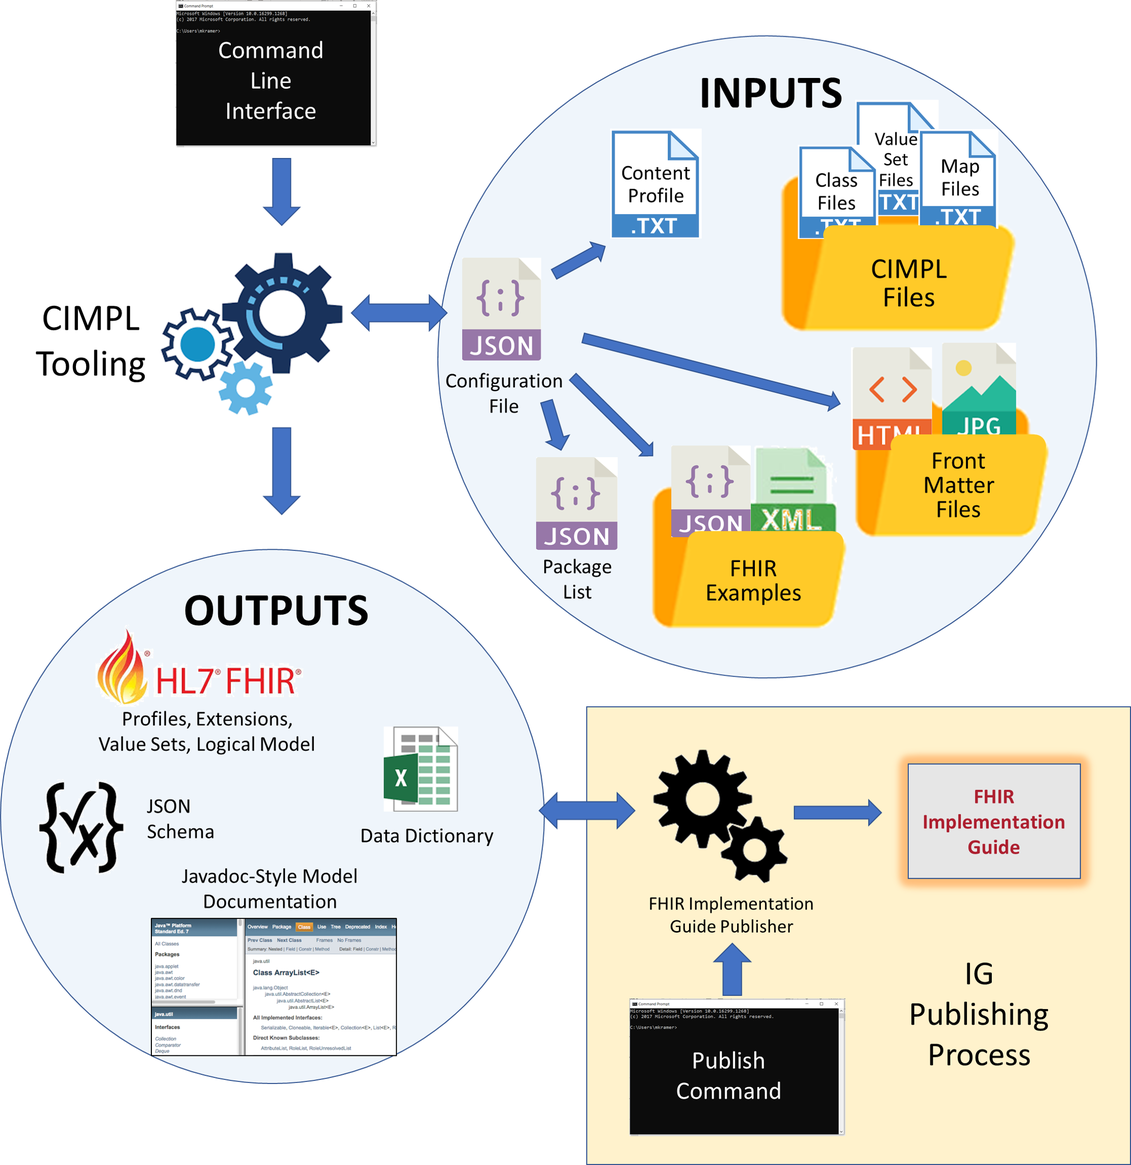
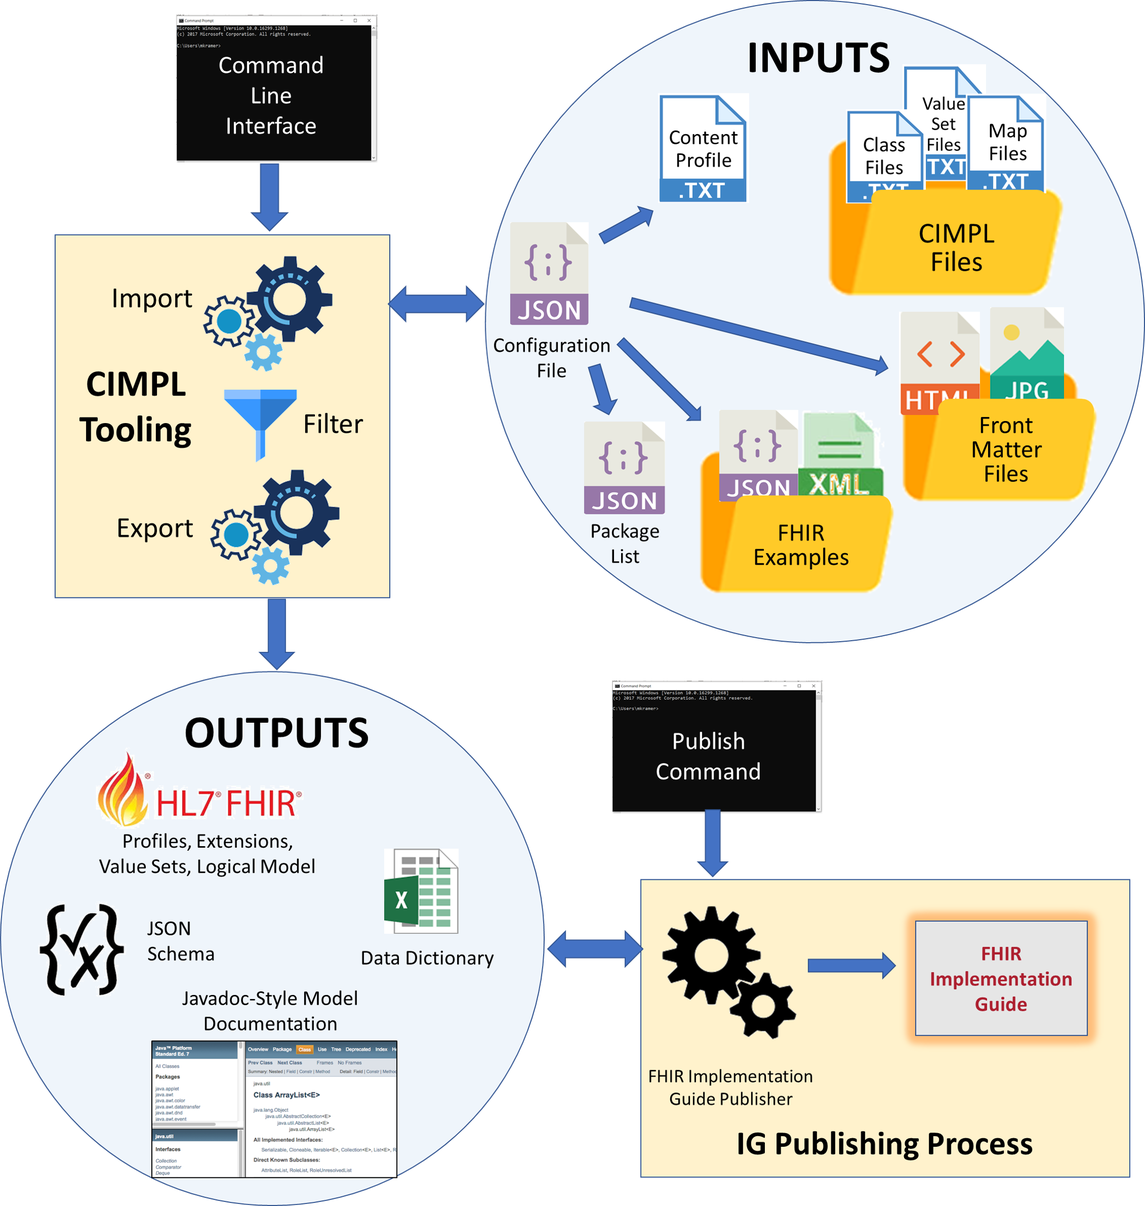
Stopping point

diff --git a/docs/cimpl6ToolingReference.md b/docs/cimpl6ToolingReference.md
@@ -13,10 +13,11 @@ _This is a comprehensive guide to CIMPL 6.0 Tooling, including the command line 
 
 ## Overview
 
-CIMPL (**C**linical **I**nformation **M**odeling **P**rofiling **L**anguage) is a specially-designed language for defining clinical information models. It is simple and compact, with tools to produce [Fast Healthcare Interoperability Resources (FHIR)](https://www.hl7.org/fhir/overview.html) profiles, extensions and Implementation Guides (IGs). The CIMPL language itself, however, does not completely define an IG. This reference manual describes the configurations, files, and commands needed to create a FHIR IG from CIMPL language files.
+CIMPL (**C**linical **I**nformation **M**odeling **P**rofiling **L**anguage) is a specially-designed language for defining clinical information models. It is simple and compact, with tools to produce [Fast Healthcare Interoperability Resources (FHIR)](https://www.hl7.org/fhir/overview.html) profiles, extensions and Implementation Guides (IGs). The CIMPL language itself, however, is static and must be processed to produce these outputs. This reference manual describes the configurations, files, and commands needed to create a FHIR IG from CIMPL language files.
 
-The CIMPL Tooling, also called SHR-CLI (Standard Health Record Command Line Interface), is the engine that reads processes CIMPL inputs and produces FHIR and other outputs, as shown below:
+The CIMPL Tooling, also called SHR-CLI (Standard Health Record Command Line Interface), is the engine that imports a set of inputs, including CIMPL language files, and exports FHIR and other outputs, as shown below:
 
+#### _Figure 1: CIMPL Tooling Overview_ ####
 ![CIMPL Tooling Overview](img_cimpl/cli-overview.png)
 
 The inputs to this process include:
@@ -41,85 +42,110 @@ In the following, we describe these inputs and outputs, and the process of runni
 This reference manual assumes that the CIMPL Language files (classes, value sets, and maps) have been defined (see [CIMPL Language Reference Manual](cimpl6LanguageReference.md) for details). It also assumes that the CIMPL SHR-CLI tooling has been installed according to the directions in the [Setup and Installation Guide](cimplInstall.md).
 
 ## Directory Structure
-The SHR-CLI tooling does not require a particular directory structure. However, following conventions makes the process of managing the requisite files much easier. 
+The SHR-CLI tooling does not require a particular directory structure. However, following conventions makes the process of managing the requisite files much easier. Here is an example of the suggested arrangement that assumes the same IG can be produced under FHIR STU3 and R4:
 
-* **Tooling Directory** - this the directory where the SHR-CLI tooling has been installed. Any convenient directory can be used
-* **Specification Directory** - this is the directory where the input files are located. Any convenient directory can be used. If you are using Github to manage your build, this could be where the repository is checked out to your local machine.
-* **
+```
+├── shr-cli-6.5.0                   // Tooling location
+|
+...
+|
+├── spec                            // Main specification directory
+|   ├── ns-namespace1                   // Namespace directories
+|   |   ├── namespace1-foo.txt               // class file(s)
+|   |   ├── namespace1-bar.txt
+|   |   ├── namespace1-foo-vs.txt            // value set file(s)
+|   |   ├── namespace1-bar-vs.txt
+|   |   ├── namespace1-foo-map-stu3.txt      // map(s) for FHIR STU3
+|   |   ├── namespace1-bar-map-stu3.txt
+|   |   ├── namespace1-foo-map-r4.txt        // map(s) for FHIR r4
+|   |   └── namespace1-bar-map-r4.txt
+|   ├── ns-namespace2
+|   | ...
+|   ├── ns-namespace3
+|   | ...
+|   | ...
+|   ├── ig-myguide1                 // IG directories
+|   |   ├── myguide1-examples           // directory of examples
+|   |   |   ├── example1
+|   |   |   └── example2
+|   |   ├── myguide1-frontmatter        // directory containing narratives
+|   |   |   ├── index.html
+|   |   |   ├── picture.png
+|   |   |   └── another-page.html
+|   |   ├── myguide1-stu3-cp.txt        // content profile file for FHIR STU3 IG
+|   |   ├── myguide1-r4-cp.txt          // content profile file for FHIR R4 IG
+|   |   ├── myguide1-stu3-plist.json    // package list for FHIR STU3 IG
+|   |   ├── myguide1-r4-plist.json      // package list for FHIR R4 IG
+|   |   ├── myguide1-stu3-config.json   // config file for FHIR STU3 IG
+|   |   └── myguide1-r4-config.json     // config file for FHIR R4 IG
+|   ├── ig-myguide2
+|   |  ...
+```
 
+* **Tooling Directory** - this the directory where the SHR-CLI tooling has been installed. Any convenient directory can be used. For easy identification, the tooling version number should be included in the directory name.
+* **Specification Directory** - this is the top level directory where the input files and are located, usually arranged in sub-folders. Any convenient directory can be used. If you are using Github to manage your development, this could be where the repository is checked out to your local machine.
+* **Namespace Directories** - these directories, located under the Specification Directory, contains CIMPL language files for a single namespace. The name of the directory should be prefixed with `ns-` followed by the shortname or acronym of the namespace followed .
+* **IG Directories** - these directories, under the specification directory contain files specific to a given implementation guide. There are subdirectories containing the frontmatter and examples, and individual configuration, content profile, and package list files. These files can be specific to a FHIR release, since the same IG could be created using different versions of FHIR.
+
+**Note:** There is currently no way to combine profiles for multiple FHIR versions in single IG.
 
 ## Configuration File
 
-SHR-CLI requires a configuration file to run. The name of this file (including the path if the file is not in the working directory) is typically specified on the command line using the -c command line option. If the name is not specified, the tooling looks for a file named `config.json` in the working directory If it cannot be found, or the contents of the file are invalid, an error message is returned.
-The contents of the configuration file are as follows:
+SHR-CLI requires a configuration file to run. The name of this file is typically specified on the command line using the -c command line option. If the name is not specified, the tooling looks for a file named `config.json` in the working directory. If it cannot be found, or the contents of the file are invalid, an error message is returned.
+
+The configuration file is a JSON file with the following parameters:
 
 |Parameter            |Type    |Description                                                    |
 |:--------------------|:-------|:--------------------------------------------------------------|
-|`projectName`        |`string`|The name of the project.                                       |
-|`projectShorthand`   |`string`|A shorthand name for the project.                              |
-|`projectURL`         |`string`|The primary URL for the project.                               |
-|`fhirURL`            |`string`|The FHIR IG URL for the project.                               |
-|`fhirTarget`         |`string`|The FHIR target for the project (`FHIR_R4`, `FHIR_STU_3`, or `FHIR_DSTU_2`)|
-|`entryTypeURL`       |`string`|The root URL for the JSON schema `EntryType` field.            |
-|`filterStrategy`     |`{}`    |An object containing configuration for filtering.              |
-|`contentProfile`     |`string`|The base file name for the content profile for the project.    |
-|`implementationGuide`|`{}`    |An object containing configuration for IG publishing.          |
+|`projectName`        |`string`|The full, official name of the project, for example "HL7 FHIR Implementation Guide: minimal Common Oncology Data Elements (mCODE) Release 1 - US Realm, STU Ballot 1"  |
+|`projectShorthand`   |`string`|A shorthand name for the project, such as "mcode".                              |
+|`projectURL`         |`string`|The primary URL for the project, such as "http://hl7.org/fhir/us/mcode/"                             |
+|`fhirURL`            |`string`|The FHIR IG URL for the project, often the same as the projectURL. **(TO DO: clarify the difference)**  |
+|`fhirTarget`         |`string`|The FHIR version this IG will be based on, currently a choice of `"FHIR_R4"`, `"FHIR_STU_3"`, or `"FHIR_DSTU_2"`|
+|`entryTypeURL`       |`string`|The root URL for the JSON schema `EntryType` field. **(TO DO: clarify where and how this is used)**   |
+|`filterStrategy`     |`{}` |A JSON object containing configuration for filtering ([see below](#filter-strategy-configuration-parameters)).              |
+|`contentProfile`     |`string`| The file name of the content profile for the project.    |
+|`implementationGuide`|`{}`    |A JSON object containing configuration for IG publishing ([see below](#implementation-guide-configuration-parameters)).          |
 |`copyrightYear`      |`string`|The copyright year to include in the documentation.            |
-|`publisher`          |`string`|The name of the publisher for the project.                     |
-|`contact`            |`[]`    |The array of FHIR `ContactPoint`s to reach about the project.  |
+|`publisher`          |`string`|The name of the publisher for the project, which for HL7 projects, should be the sponsoring workgroup, for example, "HL7 International Clinical Interoperability Council".  |
+|`contact`            |`[]`    |A JSON array containing HL7 FHIR R4 [ContactPoint objects](http://hl7.org/fhir/R4/datatypes.html#ContactPoint).  |
+|`provenanceInfo`     |`{}`    | A JSON object specifying author and other information ([see below](#provenance-information-configuration-parameters)) |
 
-## Project Name and Publisher
 
-* `projectName`
-* `projectShorthand`
-* `publisher`
-* `contact`
-
-## Project URLs and FHIR Target
-
-* `projectURL`
-* `fhirURL`
-* `fhirTarget`
-* `entryTypeURL`
-
-## Filter Configuration
-Between import (step 1) and export (step 3), there is an opportunity to remove unwanted elements to limit the scope of the exports, and subsequently, the IG. If only a subset of the SHR definitions are desired, filtering down to target elements or namespaces causes only those targets (and their dependencies) to be exported, ignoring the rest.
+### Filter Strategy Configuration Parameters
+After the import stage (see  [Figure 1](#figure-1-cimpl-tooling-overview)), there is an opportunity to remove unwanted elements to limit the scope of the exports. The filter strategy controls which classes are included in the export stage, and subsequently, the IG. If this parameter is omitted, no filtering will occur.
 
 The contents of the `filterStrategy` object are as follows:
 
-|Parameter |Type     |Description                                                                          |
-|:---------|:--------|:------------------------------------------------------------------------------------|
-|`filter`  |`boolean`|A value indicating whether to enable filtering.                                      |
-|`strategy`|`string` |The strategy for specification filtering (`"namespace"`, `"element"`, or `"hybrid"`).|
-|`target`  |`[]`     |An array of strings containing the names for what to filter.                         |
+|Parameter |Type |Description |
+|---------|------|------------|
+|`filter`  |`boolean`|A value indicating whether to enable filtering. If `filter` is `true`, then the filtering operation will occur. Otherwise, no filtering will occur. |
+|`strategy`|`string` | The strategy for specification filtering, either "namespace", "element", or "hybrid".|
+|`target`  |`[]`     |An array of strings containing the names of Entries, Namespaces, or both. |
 
-* The `"element"` `strategy` will filter the specifications to include each `EntryElement` listed in the `target` array and their recursive dependencies (other `EntryElement`, `Element`, and `ValueSet` definitions referenced by the selected `EntryElements`).
-* The `"namespace"` `strategy` will filter the specifications to include each `EntryElement` in the namespaces listed in the `target` array and their recursive dependencies.
-* The `"hybrid"` `strategy` will filter the specifications to include each `EntryElement` listed in the `target` array and all `EntryElements` in every namespace listed in the `target` array, and their recursive dependencies.
-* If `filter` is `true`, then the filtering operation will occur. Otherwise, no filtering will occur.
-* If there is no `filterStrategy` or `strategy`, filtering will not occur.
+* The "element" strategy filters the imported classes to include each Entry listed in the `target` array, and their recursive dependencies.
+* The "namespace" strategy filters the imported classes to include only Entries in the namespaces listed in the `target` array, and their recursive dependencies.
+* The "hybrid" strategy filters the imported classes to include each Entry listed in the `target` array and all Entries in every namespace listed in the `target` array, and their recursive dependencies.
 
-When specifying a namespace or element in the `target` array, it is best to use the fully qualified name (FQN) format for doing so. For example, a namespace could be `"shr.oncology"` and an element could be `"shr.oncology.BreastCancerStage"`.
+When specifying an Entry in the `target` array, it is best to use the fully qualified name (FQN) format for doing so. For example, a namespace could be `oncology` and an Entry could be `oncology.BreastCancerStage`.
 
-## Implementation Guide Configuration
-These configurations are used to highlight specific elements as more important in the IG. This is where the `implementationGuide` configuration comes into play.
-
-The contents of the `implementationGuide` object are as follows:
+### Implementation Guide Configuration Parameters
+These configurations are used to control the production of the IG. The contents of the `implementationGuide` object are as follows:
 
 |Parameter                 |Type     |Description                                                          |
 |:-------------------------|:--------|:--------------------------------------------------------------------|
-|`npmName`                 |`string` |The assigned npm-name for this IG (usually assign by HL7).           |
-|`version`                 |`string` |The version of this IG (not necessarily the version of FHIR).        |
-|`ballotStatus`            |`string` |The ballot status of the IG (e.g., STU1 Ballot, CI Build, etc.)      |
-|`packageList`             |`string` |The name of the file to use as the package-list.json for publication.|
-|`includeLogicalModels`    |`boolean`|A value indicating whether to include logical models in the IG.      |
-|`includeModelDoc`         |`boolean`|A value indicating whether to include the model doc in the IG.       |
-|`indexContent`            |`string` |The name of the file or folder containing the IG index content.      |
-|`extraResources`          |`string` |The name of the folder containing extra JSON resources to include in the IG.|
-|`examples`                |`string` |The name of the folder containing examples to include in the IG.     |
-|`historyLink`             |`string` |The URL for the page containing the IG's history information.        |
-|`changesLink`             |`string` |The URL to a site where users can request changes (shown in footer)  |
-|`primarySelectionStrategy`|`{}`     |The strategy for selection of what is primary in the IG.             |
+|`npmName`                 |`string` |The assigned node package manager name for this IG, for example "hl7.fhir.us.mcode". The npm name is usually assigned by HL7.   |
+|`version`                 |`string` |The version of this IG (not necessarily the version of FHIR).  |
+|`ballotStatus`            |`string` |The HL7 ballot status of the IG (e.g., STU1 Ballot, Continuous Integration Build, etc.)      |
+|`packageList`             |`string` |The name of the file to use as the package-list.json for publication, relative to the Specification Directory, for example, "ig-mcode/ig-mcode-plist.json". |
+|`includeLogicalModels`    |`boolean`|A "true" or "false" value indicating whether to include logical models in the IG.      |
+|`includeModelDoc`         |`boolean`|A "true" or "false" value indicating whether to include the model documentation in the IG.       |
+|`indexContent`            |`string` |The name of the file or folder containing the frontmatter, relative to the Specification Directory, for example, "ig-mcode/IndexFolder-Oncocore".    |
+|`extraResources`          |`string` |The name of the folder containing extra JSON resources to include in the IG. **(TO DO: clarify where and how this is used)**|
+|`examples`                |`string` |The name of the folder containing examples to include in the IG, relative to the Specification Directory, for example, "ig-mcode/Examples-mCODE-r4" |
+|`historyLink`             |`string` |The URL for the page containing the IG's history information.  **(TO DO: clarify where and how this is used)**   |
+|`changesLink`             |`string` |The URL to a site where users can request changes (shown in page footer) **(TO DO: clarify where and how this is used)** |
+|`primarySelectionStrategy`|`{}`     |The strategy for selection of what is primary in the IG. |
 
 The file indicated by `packageList` will be used as the `package-list.json` file for publication.  This file is required for all HL7 IGs.  If a `packageList` file is not indicated, it will default to `package-list.json`.  If a package file exists at the configured location, it will be used.  Otherwise, if the configured `fhirURL` is an hl7.org or fhir.org URL (indicating it is an HL7 publication), a basic package list file will be created.  In this case, the IG author should review and modify the file as needed and then check it into the version control system.  For more information about the `package-list.json` file, see: [http://wiki.hl7.org/index.php?title=FHIR_IG_PackageList_doco](http://wiki.hl7.org/index.php?title=FHIR_IG_PackageList_doco).
 
@@ -133,10 +159,10 @@ _NOTE: For backwards compatibility, if no `examples` folder is specified in the 
 
 The contents of the `primarySelectionStrategy` object are as follows:
 
-|Parameter |Type    |Description                                                                                                 |
-|:---------|:-------|:-----------------------------------------------------------------------------------------------------------|
-|`strategy`|`string`|The strategy to follow for primary selection (`"namespace"`, `"hybrid"`, or default `"entry"`).             |
-|`primary` |`[]    `|An array containing the namespaces and entries (only used for `"namespace"` and `"hybrid"` `strategy`).     |
+|Parameter |Type    |Description |
+|--------|------|-----------|
+|`strategy`|`string`|The strategy to follow for primary selection (`"namespace"`, `"hybrid"`, or default `"entry"`). |
+|`primary` |`[]    `|An array containing the namespaces and entries (only used for `"namespace"` and `"hybrid"` `strategy`). |
 
 The primary selection strategy causes certain profiles to be listed in a "Primary" section at the top of their respective pages in the IG, displaying them as most directly relevant. All other profiles exported in step 3 are listed in a "Supporting" section below the "Primary" section.
 
@@ -149,7 +175,23 @@ The options for the configuration file's `implementationGuide.primarySelectionSt
 
 When specifying a namespace or element in the `primary` array, it is best to use the fully qualified name (FQN) format for doing so. For example, a namespace could be `"shr.oncology"` and an element could be `"shr.oncology.BreastCancerStage"`.
 
+### Provenance Information Configuration Parameters
 
+**(TO DO: need to document what this structure can contain)**
+
+Here is an example of provenanceInformation:
+
+```
+    "provenanceInfo": {
+        "leadAuthor": {
+            "name":"Example Author",
+            "organization": "Example Publisher",
+            "email": "example@example.org"
+        },
+        "license": "Creative Commons CC-BY <https://creativecommons.org/licenses/by/3.0/>",
+        "copyright": "Copyright (c) The Example Organization <http://example.org>"
+    }
+```
 
 ### Executing CLI
 

diff --git a/docs/cimpl6Tutorial_helloWorld.md b/docs/cimpl6Tutorial_helloWorld.md
@@ -11,6 +11,7 @@ mkdir hello_world
 ```
 
 Now, create a file called `HelloWorld.txt` in the `~/cimpl/hello_world` folder and add the following data definitions:
+
 ```
 Grammar:         DataElement 6.0
 Namespace:       hello
@@ -25,6 +26,7 @@ Description:     "An extension indicating whether to say hello"
 Value:           boolean
 ```
 Next, create a file called `HelloWorld_map.txt` that defines the mapping to FHIR. Since this doesn’t align with any particular resource, it will map to [`Basic`](https://www.hl7.org/fhir/basic.html). This file is even simpler:
+
 ```
 Grammar:     Map 5.1
 Namespace:   hello
@@ -32,6 +34,7 @@ Target:      FHIR_STU_3
 
 HelloWorld maps to Basic:
 ```
+
 We didn’t map the `SayHello` data element to an existing element inside this resource, so it will automatically appear as an extension.
 
 Next, we need some simple HTML for the Implementation Guide pages, so create an `exampleIndexContent.html` file with the following content:
@@ -40,7 +43,8 @@ HELLO HELLO HELLO
 ```
 
 Finally, we need a configuration file. Create an `ig-hello_world-config.json` file with these contents:
-```json
+
+```
 {
     "projectName": "Example Project",
     "projectShorthand": "EXAMPLE",
@@ -74,42 +78,30 @@ Finally, we need a configuration file. Create an `ig-hello_world-config.json` fi
 ```
 
 Now, go back to your `shr-cli` installation and run the hello world:
-```
+
+```dos
 cd ~/cimpl/shr-cli
 node . -c ig-hello_world-config.json ../hello_world
 ```
+
 When the program runs, it will output a warning message alerting you that mapping to Basic usually isn’t the best choice, but in this case, it is intentional. After the program runs, the generated profile (a FHIR `StructureDefinition`) will be found in `~/cimpl/shr-cli/out/fhir/profiles/`.  `StructureDefinition`s are verbose, and this one clocks in at several hundred lines.
 
 A friendlier view is created when we create an implementation guide (IG). To do this, we use the [existing FHIR implementation guide (IG) publisher](http://wiki.hl7.org/index.php?title=IG_Publisher_Documentation).
 
-<br />
+## IG Generation
 
-## IG Generation with a Proxy Server
-_Note: If your organization uses a proxy server, you'll need to explicitly declare a few options.  If your organization **does not** use a proxy server, you can skip ahead to [IG Generation](#ig-generation)._
+_Note: If your organization uses a proxy server, you may have to run the IG publishing process from outside your organization's firewall. For more information, see FHIR's GForge tracker as issue [#19815](https://gforge.hl7.org/gf/project/fhir/tracker/?action=TrackerItemEdit&tracker_item_id=19815).
 
-**On Windows:**
-```
-java %JAVA_OPTS% -Xms4g -Xmx8g -jar out/fhir/guide/org.hl7.fhir.publisher.jar -ig out/fhir/guide/ig.json
-```
-_Note: users have reported issues with running the IG publisher on windows behind a proxy.  Please try to run the IG publisher without connecting to a proxy_
-
-**On Linux/MacOS:**
-```
-java $JAVA_OPTS -Xms4g -Xmx8g -jar out/fhir/guide/org.hl7.fhir.publisher.jar -ig out/fhir/guide/ig.json
-```
-<br />
-
-## IG Generation (without a Proxy Server)
 To generate the IG, run:
-```
+
+```dos
 cd ~/cimpl/shr-cli
 yarn run ig:publish
 ```
 
->**Note**: If you're running the IG Generation tool behind a proxy, you may need to [explicitly declare the proxy at runtime](https://github.com/standardhealth/shr-cli#creating-the-fhir-implementation-guide-using-an-http-proxy), since the process tries to access external terminology servers.
-
 The generated profile page will be located at `~/cimpl/shr-cli/out/fhir/guide/output/StructureDefinition-hello-HelloWorld.html`.  Open this page in your favorite web browser.
+
+You should see a FHIR profile that looks like a traditional [FHIR Implementation Guide](https://www.hl7.org/fhir/implementationguide.html).  For a more comprehensive understanding of the CIMPL grammar and how to use it for your project, continue to the [Tutorial](https://github.com/standardhealth/shr-cli/wiki/Tutorial).
 
 > **Note:** the IG is automatically branded as part of the Standard Health Record (SHR). We are working on “de-branding” the IG, so please ignore the SHR references for now.
 
-You should see a FHIR profile that looks like a traditional [FHIR Implementation Guide](https://www.hl7.org/fhir/implementationguide.html).  For a more comprehensive understanding of the CIMPL grammar and how to use it for your project, continue to the [Tutorial](https://github.com/standardhealth/shr-cli/wiki/Tutorial).

diff --git a/docs/cimpl6UserGuide.md b/docs/cimpl6UserGuide.md
@@ -94,7 +94,9 @@ MustSupport is contextual and could vary depending on the reference implementati
 
 Content Profile files are text files which use the following convention:
 
-    ig-<Content Profile Name>-cp.txt
+```
+ig-<Content Profile Name>-cp.txt
+```
 
 Where `<Content Profile Name>` is by convention the same name as the IG Configuration JSON file.
 
